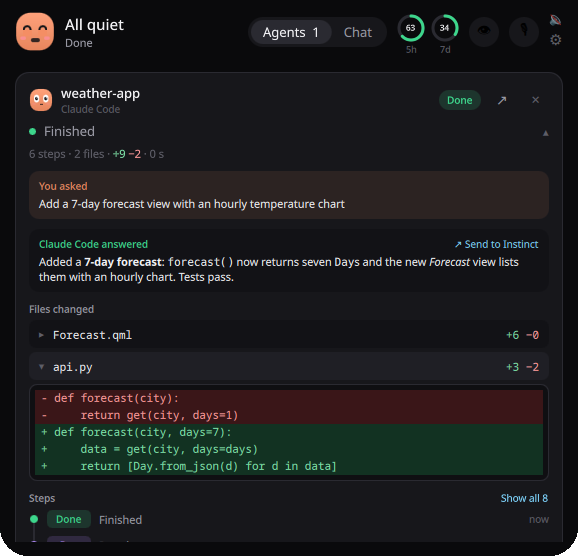
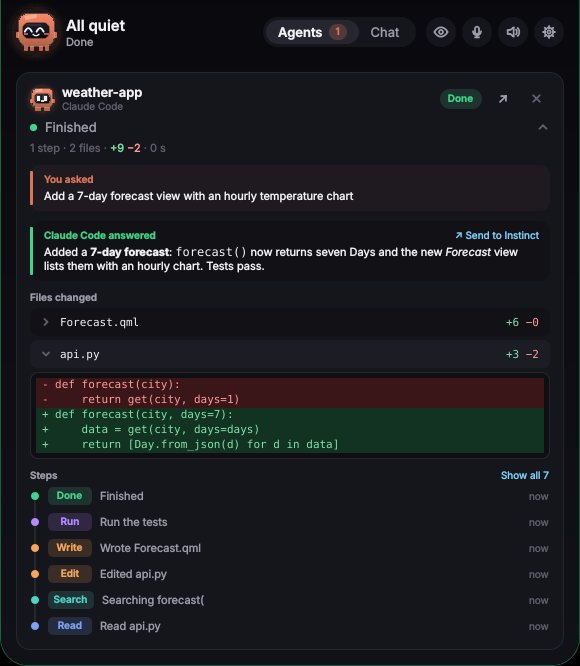
Update the README screenshots for the new Lumo; drop shortcut hints
The README screenshots now show the new Lumo and the redesigned island: a
session with its diff, a plan, a question, the compact island and the
wardrobe. They are rendered from the real QML and the real AgentHub, fed with
hook events.

The redesign brought hints for Meta+Alt+Y / Meta+Alt+D from PR #1, but those
shortcuts were not taken, so the request cards and Settings no longer show
them. The README says ↗ opens a cloud session in Claude Desktop.

Claude-Session: https://claude.ai/code/session_018WoC1bL1Q22RYEHXLn5Kqr

diff --git a/qml/RequestCard.qml b/qml/RequestCard.qml
@@ -212,22 +212,6 @@ Rectangle {
             PillButton { text: qsTr("Approve"); primary: true; tint: Ui.good; onClicked: hub.allow(card.requestId) }
         }
 
-        // The global shortcuts act on the card at the top.
-        Row {
-            visible: card.index === 0 && (card.kind === "permission" || card.kind === "plan")
-            Layout.alignment: Qt.AlignRight
-            spacing: 4
-            opacity: 0.85
-            Keycap { small: true; text: "Meta" }
-            Keycap { small: true; text: "Alt" }
-            Keycap { small: true; text: "Y" }
-            Text { anchors.verticalCenter: parent.verticalCenter; text: card.kind === "plan" ? qsTr("approve") : qsTr("allow"); color: Ui.faint; font.pixelSize: 10; rightPadding: 8 }
-            Keycap { small: true; text: "Meta" }
-            Keycap { small: true; text: "Alt" }
-            Keycap { small: true; text: "D" }
-            Text { anchors.verticalCenter: parent.verticalCenter; text: card.kind === "plan" ? qsTr("keep planning") : qsTr("deny"); color: Ui.faint; font.pixelSize: 10 }
-        }
-
         RowLayout {
             visible: card.kind === "notice"
             Layout.fillWidth: true

diff --git a/qml/SettingsWindow.qml b/qml/SettingsWindow.qml
@@ -549,20 +549,6 @@ Window {
                             Keycap { text: "I" }
                         }
                         SettingRow {
-                            title: qsTr("Allow the top request")
-                            description: qsTr("Approves a plan too.")
-                            Keycap { text: "Meta" }
-                            Keycap { text: "Alt" }
-                            Keycap { text: "Y" }
-                        }
-                        SettingRow {
-                            title: qsTr("Deny the top request")
-                            description: qsTr("Sends a plan back to keep planning.")
-                            Keycap { text: "Meta" }
-                            Keycap { text: "Alt" }
-                            Keycap { text: "D" }
-                        }
-                        SettingRow {
                             title: qsTr("Dictate")
                             description: dictation.keyMode === "evdev" ? qsTr("Hold, speak, let go. Tap twice for hands-free.") : qsTr("Set on the Dictation page.")
                             Keycap { text: dictation.keyLabel || qsTr("None") }

diff --git a/README.md b/README.md
@@ -36,7 +36,7 @@ they're done. It's written from scratch in C++ and Qt Quick (no web view): the i
 | **Chat** | With Claude on **your Pro/Max subscription** through the Claude Code CLI you're signed in to — no API key — or a local Ollama model. Drop a file on the island to ask about it. |
 | **Notion** | Chat with Claude about your Notion through your claude.ai Notion connector, read-only unless you allow edits. |
 | **Plan usage** | Your 5-hour and weekly Claude limits, read from your Claude account. |
-| **Cloud sessions** | Your Claude Code sessions running on claude.ai/code: working, needs you, done or failed. ↗ opens one in the browser. Approvals stay on claude.ai, as the hooks never run there. |
+| **Cloud sessions** | Your Claude Code sessions running on claude.ai/code: working, needs you, done or failed. ↗ opens one in Claude Desktop (or the browser). Approvals stay on claude.ai, as the hooks never run there. A switch in Settings turns the list off. |
 | **Music** | What's playing in any MPRIS player (Spotify, browsers, VLC…) with controls; Lumo dances. |
 | **Lumo** | A cousin of Claude's Clawd with a glowing screen for a face: its light turns cyan while an agent works, amber when it needs you, and smiles when it's done. Blinks, follows your pointer, gets dizzy if you poke it too much, celebrates when an agent finishes — each with its own synthesized sound. Eight outfits: crown, Moroccan tarbouche, lion, engineering student, engineer, military dress uniform, sunglasses, and headphones that go on by themselves when music plays. |
 | **Instinct** | Hands chat answers, sessions and dictations to the Instinct assistant through you (WhatsApp, pre-filled — you press Send). |
